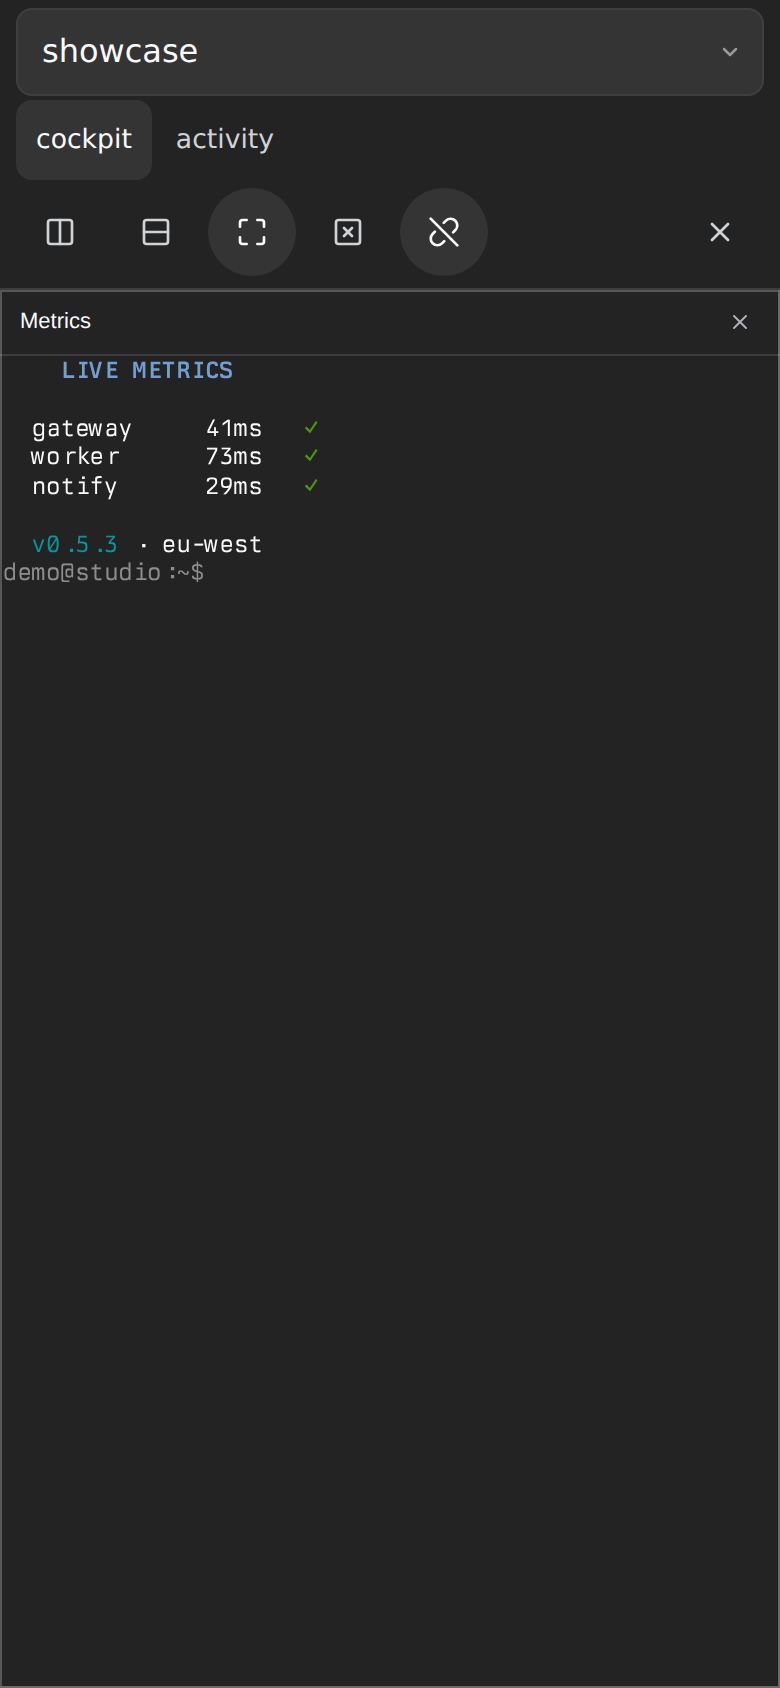
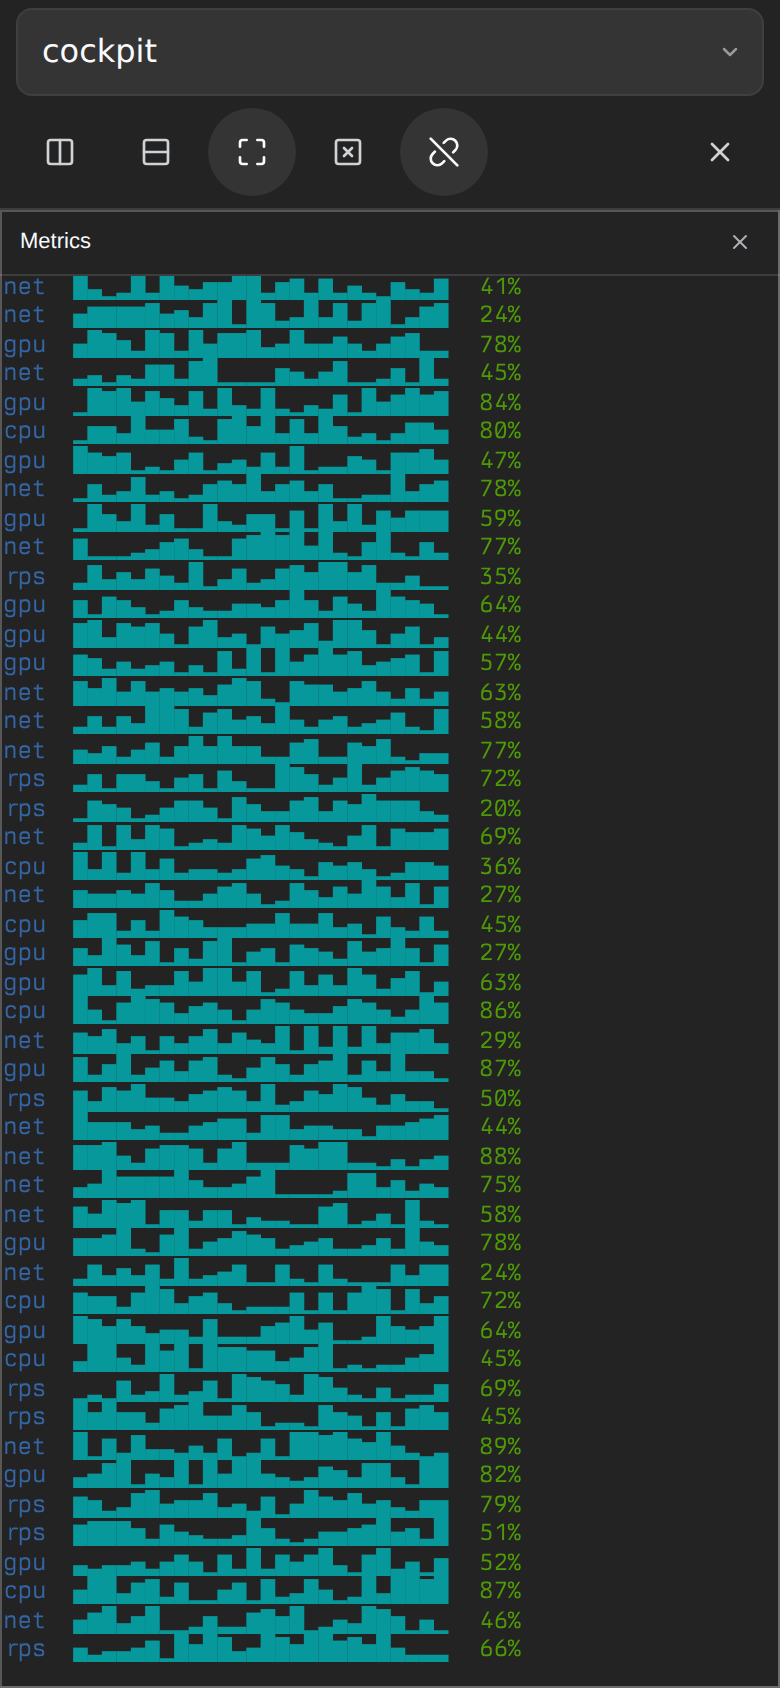
docs: dense mobile screenshots
- Grid: synthetic request, test, sparkline, and release streams fill
  every pane at the native font in takeover mode
- Zoom: native resize-pane -Z turns the Metrics pane into a
  full-screen sparkline wall

Changed region(s): [[0.0, 0.0, 1.0, 0.9858], [0.5538, 0.0616, 0.5846, 0.0924]]

diff --git a/assets/README.md b/assets/README.md
@@ -6,7 +6,7 @@ They were captured from:
 
 - an isolated `DSH_HOME` with a fresh Web profile;
 - a dedicated tmux server socket, separate from the maintainer's normal tmux server;
-- a synthetic `showcase` session containing generated API, test, release, and metrics output (mobile captures);
+- a synthetic `cockpit` session of generated request logs, test results, sparkline metrics, and a release checklist streaming at the dock's native mobile grid (mobile captures; takeover mode sizes the window to the phone's grid);
 - a `cockpit` session of real, locally installed programs at their idle screens — btop (process panel hidden), Claude Code, Codex, and omp — plus a synthetic CI log ticker and a styled project README card, rendered through a fake 220-column pty seat so the dock mirrors without resizing the window (desktop hero capture). Panes that would have shown live infrastructure names (lazyjournal's docker list, herdr's workspaces) were deliberately replaced with synthetic content;
 - a `sidecar` session stacking Claude Code, Codex, and omp for right-sidebar mode (sidebar capture);
 - a blank demonstration workspace with no private conversations or files.
